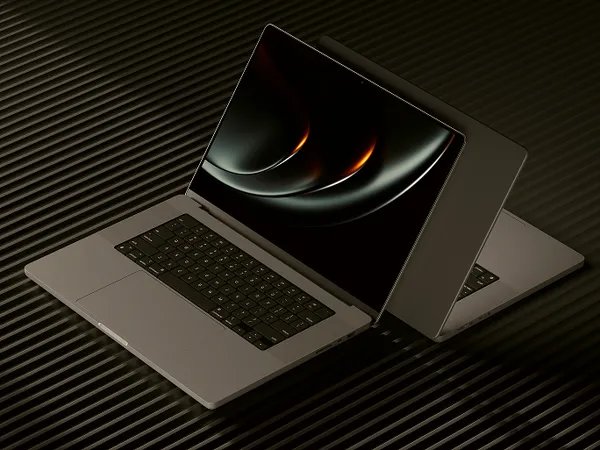
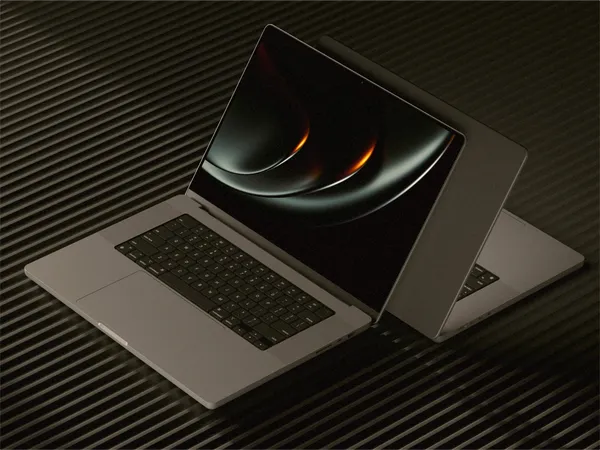
Updates

Changed region(s): [[0.0, 0.9956, 1.0, 1.0]]

diff --git a/css/services.min.css b/css/services.min.css
@@ -1,1 +1,1 @@
-.hero-services__container{align-items:center;display:flex;flex-direction:column;justify-content:center;max-width:101.875rem}.stats__container{display:flex;flex-wrap:wrap;max-width:76.875rem;row-gap:1.25rem}.stats__item{flex:1 1 0.625rem}.item-stats{align-items:center;display:flex;flex-direction:column;font-family:Satoshi,sans-serif;justify-content:center;text-align:center;text-transform:uppercase}.item-stats__title{font-size:.8125rem;letter-spacing:.09375rem;line-height:1.6}.item-stats__value{color:#dac5a7;font-weight:300;line-height:1.1}.services__container{display:grid;gap:2rem}.item-service>*{margin-bottom:3rem}.item-service>:last-child{margin-bottom:0}.item-service__label{font-family:Satoshi,sans-serif;font-size:.8125rem;letter-spacing:.09375rem;line-height:1.6;margin-bottom:1rem;text-transform:uppercase}.item-service__title{color:#dac5a7;font-family:Satoshi,sans-serif;line-height:1.1}.item-service__link-image{display:block}.item-service__image{width:100%}@media (max-width:20em){.page--services{padding-bottom:1.875rem}.page__hero--services,.page__stats:not(:last-child){margin-bottom:1.875rem}.hero-services{padding-top:7.5rem}.hero-services__button{margin-block:1.25rem}.stats__container{column-gap:1.25rem}.item-stats__value{font-size:3rem}.item-service{padding:1.25rem}.item-service__title{font-size:2rem}}@media (min-width:20em) and (max-width:89.375em){.page--services{padding-bottom:clamp(1.875rem,-.46734234234375rem + 11.7117117117vw,10rem)}.page__hero--services{margin-bottom:clamp(1.875rem,.9740990991rem + 4.5045045045vw,5rem)}.page__stats:not(:last-child){margin-bottom:clamp(1.875rem,-.46734234234375rem + 11.7117117117vw,10rem)}.hero-services{padding-top:clamp(7.5rem,5.626126126125rem + 9.3693693694vw,14rem)}.hero-services__button{margin-block:clamp(1.25rem,.45720720720625rem + 3.963963964vw,4rem)}.stats__container{column-gap:clamp(1.25rem,.45720720720625rem + 3.963963964vw,4rem)}.item-stats__value{font-size:clamp(3rem,2.7117117117125rem + 1.4414414414vw,4rem)}.item-service{padding:clamp(1.25rem,.45720720720625rem + 3.963963964vw,4rem)}.item-service__title{font-size:clamp(2rem,1.423423423425rem + 2.8828828829vw,4rem)}}@media (min-width:89.375em){.page--services{padding-bottom:10rem}.page__hero--services{margin-bottom:5rem}.page__stats:not(:last-child){margin-bottom:10rem}.hero-services{padding-top:14rem}.hero-services__button{margin-block:4rem}.stats__container{column-gap:4rem}.item-stats__value{font-size:4rem}.item-service{padding:4rem}.item-service__title{font-size:4rem}}
+.hero-services__container{align-items:center;display:flex;flex-direction:column;justify-content:center;max-width:101.875rem}.stats__container{display:flex;flex-wrap:wrap;max-width:76.875rem;row-gap:1.25rem}.stats__item{flex:1 1 0.625rem}.item-stats{align-items:center;display:flex;flex-direction:column;font-family:Satoshi,sans-serif;justify-content:center;text-align:center;text-transform:uppercase}.item-stats__title{font-size:.8125rem;letter-spacing:.09375rem;line-height:1.6}.item-stats__value{color:#dac5a7;font-weight:300;line-height:1.1}.services__container{display:grid;gap:2rem}.item-service>*{margin-bottom:3rem}.item-service>:last-child{margin-bottom:0}.item-service__label{font-family:Satoshi,sans-serif;font-size:.8125rem;letter-spacing:.09375rem;line-height:1.6;margin-bottom:1rem;text-transform:uppercase}.item-service__title{color:#dac5a7;font-family:Satoshi,sans-serif;line-height:1.1}.item-service__link-image{display:block;position:relative}.item-service__link-image:after{background:url(../assets/img/noise.webp) 0 0 repeat;content:"";height:100%;left:0;position:absolute;top:0;width:100%}.item-service__image{width:100%}@media (max-width:20em){.page--services{padding-bottom:1.875rem}.page__hero--services,.page__stats:not(:last-child){margin-bottom:1.875rem}.hero-services{padding-top:7.5rem}.hero-services__button{margin-block:1.25rem}.stats__container{column-gap:1.25rem}.item-stats__value{font-size:3rem}.item-service{padding:1.25rem}.item-service__title{font-size:2rem}}@media (min-width:20em) and (max-width:89.375em){.page--services{padding-bottom:clamp(1.875rem,-.46734234234375rem + 11.7117117117vw,10rem)}.page__hero--services{margin-bottom:clamp(1.875rem,.9740990991rem + 4.5045045045vw,5rem)}.page__stats:not(:last-child){margin-bottom:clamp(1.875rem,-.46734234234375rem + 11.7117117117vw,10rem)}.hero-services{padding-top:clamp(7.5rem,5.626126126125rem + 9.3693693694vw,14rem)}.hero-services__button{margin-block:clamp(1.25rem,.45720720720625rem + 3.963963964vw,4rem)}.stats__container{column-gap:clamp(1.25rem,.45720720720625rem + 3.963963964vw,4rem)}.item-stats__value{font-size:clamp(3rem,2.7117117117125rem + 1.4414414414vw,4rem)}.item-service{padding:clamp(1.25rem,.45720720720625rem + 3.963963964vw,4rem)}.item-service__title{font-size:clamp(2rem,1.423423423425rem + 2.8828828829vw,4rem)}}@media (min-width:89.375em){.page--services{padding-bottom:10rem}.page__hero--services{margin-bottom:5rem}.page__stats:not(:last-child){margin-bottom:10rem}.hero-services{padding-top:14rem}.hero-services__button{margin-block:4rem}.stats__container{column-gap:4rem}.item-stats__value{font-size:4rem}.item-service{padding:4rem}.item-service__title{font-size:4rem}}

diff --git a/index.html b/index.html
@@ -10,10 +10,10 @@
 		<link rel="preload" href="./assets/fonts/Chillax-Light.woff2" as="font" type="font/woff2" crossorigin="anonymous">
 		<link rel="shortcut icon" href="./assets/img/favicon.ico">
 		<title>Home Page</title>
-		<script type="module" crossorigin="" src="./js/index.min.js?v=1759501228138"></script>
+		<script type="module" crossorigin="" src="./js/index.min.js?v=1759502163431"></script>
 		<link rel="modulepreload" crossorigin="" href="./js/app.min.js">
-		<link rel="stylesheet" crossorigin="" href="./css/app.min.css?v=1759501228138">
-		<link rel="stylesheet" crossorigin="" href="./css/index.min.css?v=1759501228138">
+		<link rel="stylesheet" crossorigin="" href="./css/app.min.css?v=1759502163431">
+		<link rel="stylesheet" crossorigin="" href="./css/index.min.css?v=1759502163431">
 	</head>
 	<body>
 		<div class="wrapper">
@@ -139,6 +139,7 @@
 								<a href="#" class="item-work__picture">
 									<picture>
 										<source media="(max-width: 600px)" srcset="./assets/img/works/01-600.webp" type="image/webp">
+										<source media="(max-width: 1200px)" srcset="./assets/img/works/01-1200.webp" type="image/webp">
 										<img class="item-work__image" alt="Image" src="./assets/img/works/01.webp">
 									</picture>
 								</a>
@@ -167,6 +168,7 @@
 								<a href="#" class="item-work__picture">
 									<picture>
 										<source media="(max-width: 600px)" srcset="./assets/img/works/03-600.webp" type="image/webp">
+										<source media="(max-width: 1200px)" srcset="./assets/img/works/03-1200.webp" type="image/webp">
 										<img class="item-work__image" alt="Image" src="./assets/img/works/03.webp">
 									</picture>
 								</a>
@@ -181,6 +183,7 @@
 								<a href="#" class="item-work__picture">
 									<picture>
 										<source media="(max-width: 600px)" srcset="./assets/img/works/04-600.webp" type="image/webp">
+										<source media="(max-width: 1200px)" srcset="./assets/img/works/04-1200.webp" type="image/webp">
 										<img class="item-work__image" alt="Image" src="./assets/img/works/04.webp">
 									</picture>
 								</a>

diff --git a/services.html b/services.html
@@ -10,10 +10,10 @@
 		<link rel="preload" href="./assets/fonts/Chillax-Light.woff2" as="font" type="font/woff2" crossorigin="anonymous">
 		<link rel="shortcut icon" href="./assets/img/favicon.ico">
 		<title>Services</title>
-		<script type="module" crossorigin="" src="./js/services.min.js?v=1759501228137"></script>
+		<script type="module" crossorigin="" src="./js/services.min.js?v=1759502163432"></script>
 		<link rel="modulepreload" crossorigin="" href="./js/app.min.js">
-		<link rel="stylesheet" crossorigin="" href="./css/app.min.css?v=1759501228137">
-		<link rel="stylesheet" crossorigin="" href="./css/services.min.css?v=1759501228137">
+		<link rel="stylesheet" crossorigin="" href="./css/app.min.css?v=1759502163432">
+		<link rel="stylesheet" crossorigin="" href="./css/services.min.css?v=1759502163432">
 	</head>
 	<body>
 		<div class="wrapper">
@@ -118,6 +118,7 @@
 							<a href="#" class="item-service__link-image">
 								<picture>
 									<source media="(max-width: 600px)" srcset="./assets/img/works/01-600.webp" type="image/webp">
+									<source media="(max-width: 1200px)" srcset="./assets/img/works/01-1200.webp" type="image/webp">
 									<img class="item-service__image" alt="Image" src="./assets/img/works/01.webp">
 								</picture>
 							</a>

diff --git a/css/dev/services.css b/css/dev/services.css
@@ -60,6 +60,16 @@
 }
 .item-service__link-image {
   display: block;
+  position: relative;
+}
+.item-service__link-image::after {
+  content: "";
+  background: url("../assets/img/noise.webp") 0 0 repeat;
+  position: absolute;
+  width: 100%;
+  height: 100%;
+  top: 0;
+  left: 0;
 }
 .item-service__image {
   width: 100%;
